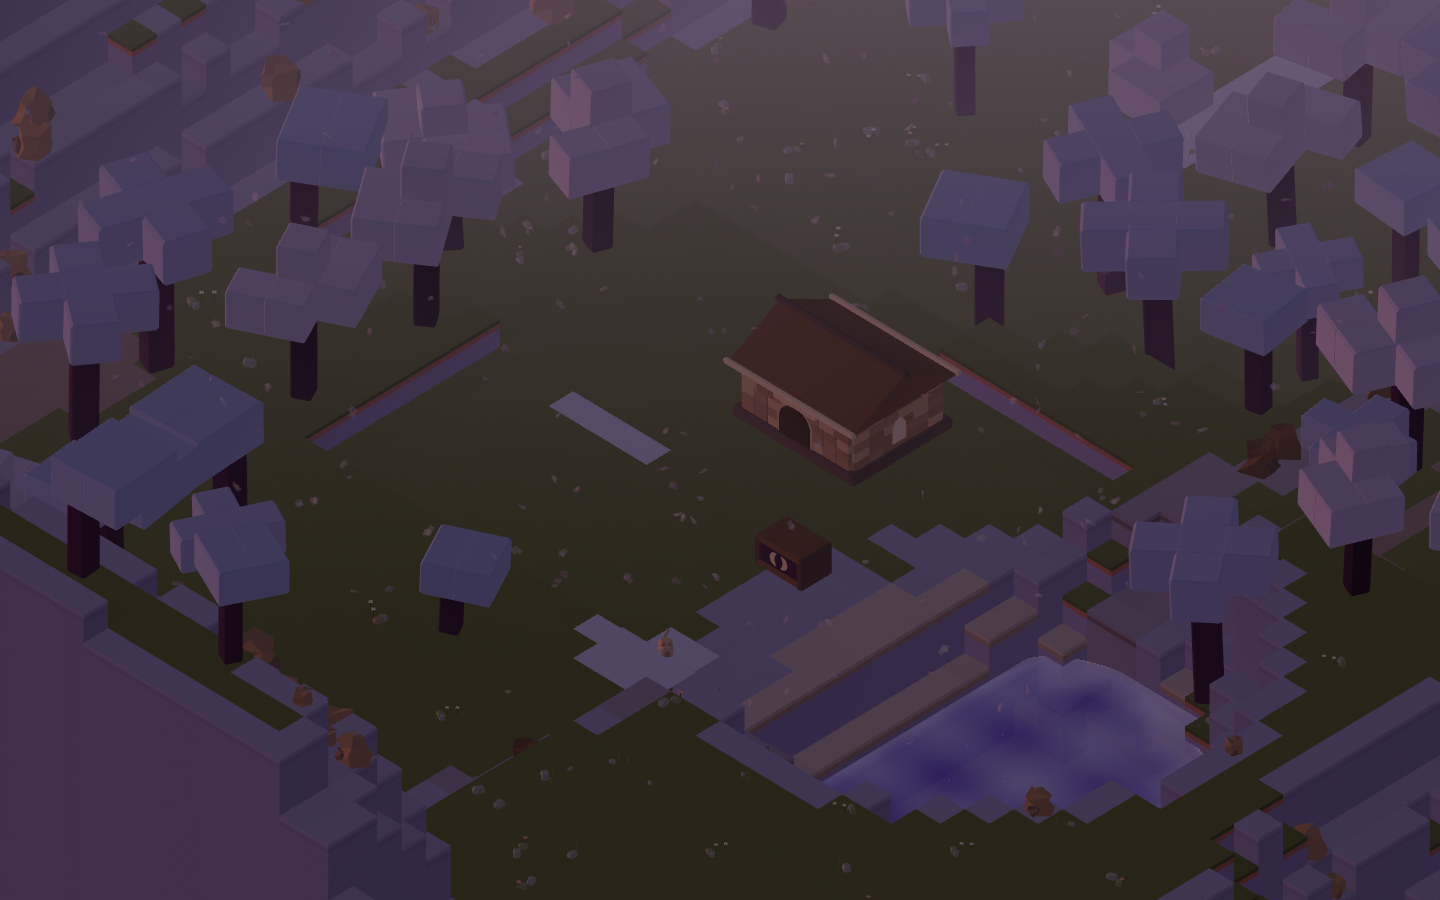
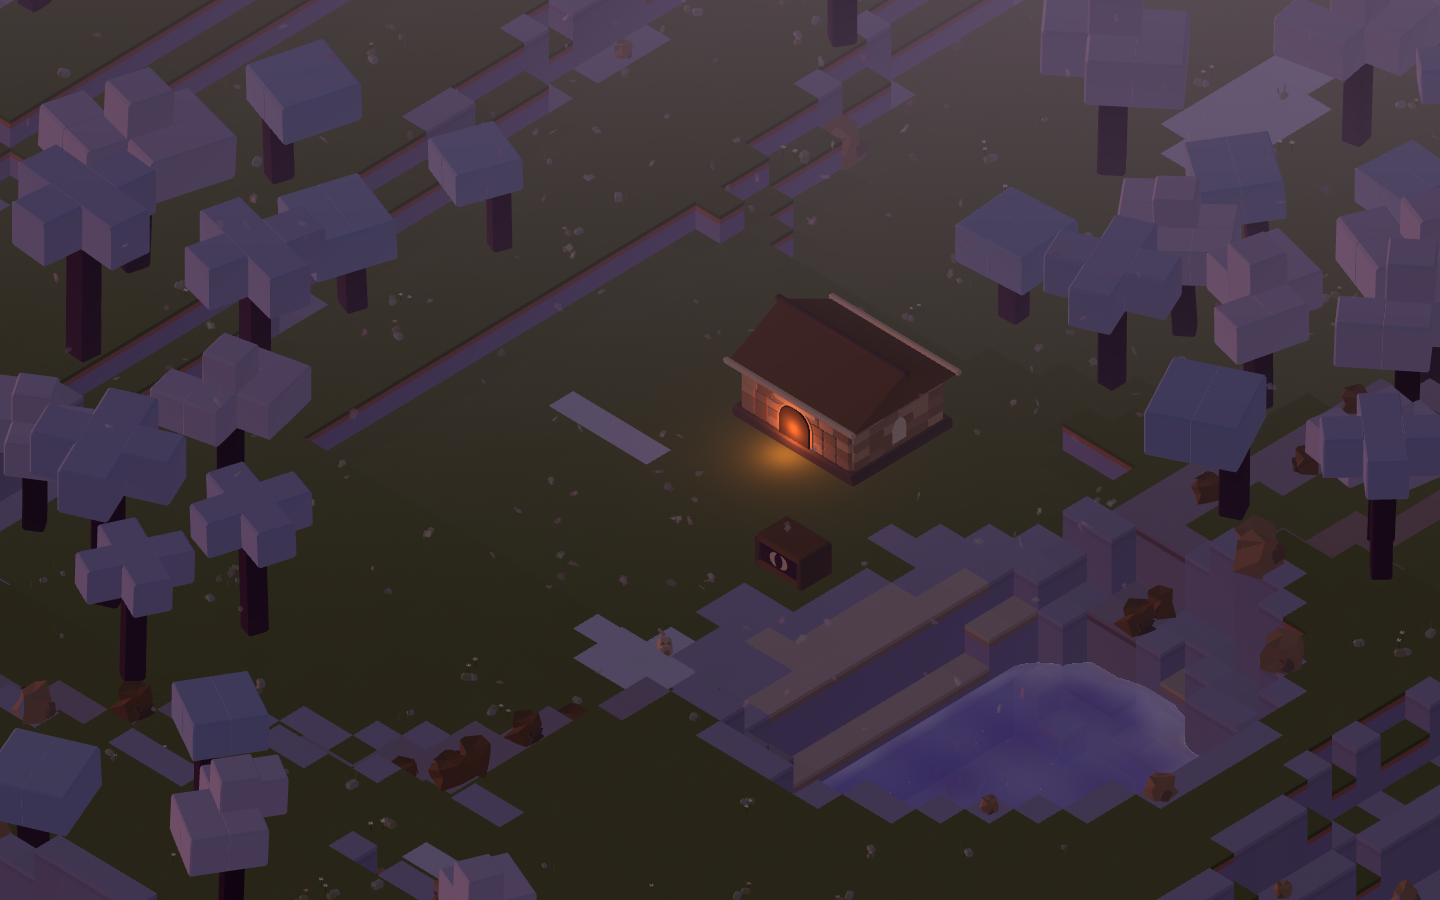
Lit windows after dark, furrowed fields, and the tab-throttling flake
NIGHT HAD NOTHING IN IT. A flat blue wash over the whole valley — technically a
night, and nothing to look at. The camera sits at thirty-seven degrees and in
close shots there is no sky in frame at all, so the stars that already exist
cannot help: whatever makes night worth being out in has to be on the ground.

So the homestead's windows and its doorway light up. Unlit quads a hair proud of
each opening, off by day, faded up on a curve steep enough that it reads as
somebody lighting a lamp rather than as a dimmer — plus a warm point light
outside the door that spills onto the grass. A lit door is a place somebody
lives, and it is the only warm light in a valley that has nobody else in it.

WORKED GROUND WAS A FLAT BROWN SLAB — a field only because the colour said so. A
ploughed field is rows, and at one quad per cell the way to get rows is to
alternate the top tone on a two-cell period. Six per cent either way: enough to
read as furrows from the play camera, small enough that it never becomes a
stripe the eye follows instead of the crop standing in it. Worked ground only —
alternating the meadow would be exactly the checkerboard the grain function
exists to avoid.

AND A CAPTURE OF THE FARMING, which is the game and had no pose at all; every
existing one was of scenery. `npm run shoot field` sows four rows at graded
stages so one frame carries seedling, half-grown and ripe side by side, which is
the only way to see whether the stages read apart from each other.
[…]

diff --git a/src/world/buildings.js b/src/world/buildings.js
@@ -151,9 +151,15 @@ export function homestead(tier = 1) {
 
   // Windows, as lune arches in cream — the only cream on the building, so they
   // are what your eye finds from across the valley.
+  const panes = []
   for (const side of [-1, 1]) {
     parts.push({ geometry: luneArch(0.52, 0.8, 0.1), position: [side * (w / 2 + 0.02), h * 0.28, 0], rotation: [0, side * Math.PI / 2, 0], color: UI.creamDeep })
+    panes.push({ at: [side * (w / 2 + 0.1), h * 0.28 + 0.4, 0], size: [0.42, 0.66], rot: side * Math.PI / 2 })
   }
+  // And one in the doorway, which is the one that reads from furthest away —
+  // a lit door is a place somebody lives, and it is the only warm light in a
+  // valley that has nobody else in it.
+  panes.push({ at: [0, h * 0.32, d / 2 + 0.09], size: [0.82, 1.0], rot: 0 })
 
   if (t >= 2) {
     // Porch: two posts and a canopy.
@@ -175,7 +181,14 @@ export function homestead(tier = 1) {
     parts.push({ geometry: FLARE, position: [-w / 2 + 0.7, h + 2.55, -d / 4], scale: [1.9, 0.44, 1.9], color: UI.stoneDeep })
     parts.push({ geometry: shardGeometry(), position: [-w / 2 + 0.7, h + 3.1, -d / 4], scale: [0.42, 0.55, 0.34], color: UI.rose })
   }
-  return { geometry: bake(parts), footprint: [Math.ceil(w) + 2, Math.ceil(d) + 3], height: h }
+  return {
+    geometry: bake(parts),
+    footprint: [Math.ceil(w) + 2, Math.ceil(d) + 3],
+    height: h,
+    panes,
+    // Where the light spills from. Just outside the door, at head height.
+    lamp: [0, h * 0.4, d / 2 + 0.5],
+  }
 }
 
 /**
@@ -393,6 +406,42 @@ export function placeStructure(kind, level, grid, x, z) {
     group.add(shard)
     group.userData.shard = shard
   }
+  /**
+   * WINDOWS AFTER DARK.
+   *
+   * Night was a flat blue wash over the whole valley — technically a night, and
+   * nothing in it to look at. The camera sits at thirty-seven degrees and in
+   * close shots there is no sky in frame at all, so stars cannot help: whatever
+   * makes night worth being out in has to be on the GROUND.
+   *
+   * These are unlit quads sitting a hair proud of each window and the door, off
+   * by day and faded up after dusk. One material per building so the whole set
+   * animates with a single opacity, and `glowMat` is a basic material — a window
+   * that is dimmed by the same darkness it is supposed to be pushing back is not
+   * a lit window.
+   */
+  if (built.panes?.length) {
+    const paneMat = glowMat(C.fireMid, 1)
+    paneMat.transparent = true
+    paneMat.opacity = 0
+    const panes = new THREE.Group()
+    for (const pane of built.panes) {
+      const q = new THREE.Mesh(FLAT, paneMat)
+      q.position.set(...pane.at)
+      q.rotation.y = pane.rot ?? 0
+      q.scale.set(pane.size[0], pane.size[1], 0.04)
+      panes.add(q)
+    }
+    group.add(panes)
+    group.userData.panes = paneMat
+  }
+  if (built.lamp) {
+    const lamp = new THREE.PointLight(new THREE.Color().setStyle(C.ember, THREE.SRGBColorSpace), 0, 9, 2)
+    lamp.position.set(...built.lamp)
+    group.add(lamp)
+    group.userData.lamp = lamp
+  }
+
   if (built.glow) {
     const light = new THREE.PointLight(new THREE.Color().setStyle(C.ember, THREE.SRGBColorSpace), 0, 7, 2)
     light.position.set(...built.glow)

diff --git a/src/main.js b/src/main.js
@@ -76,6 +76,7 @@ const POSES = {
   rig: { at: [HOME.x, 1.0, HOME.z], size: 5, hour: 12 },
   pebble: { at: [HOME.x + 2, -0.86, HOME.z + 2], size: 1.4, hour: 12, pebble: true },
   house: { at: [HOME.x, 1.4, HOME.z - 5], size: 6.5, hour: 12 },
+  field: { at: [HOME.x, 0.4, HOME.z + 1], size: 8, hour: 11, field: true },
   pond: { at: [HOME.x + 13, -1.1, HOME.z + 2], size: 20, hour: 11 },
   lake: { at: [N * 0.76, -1.1, N * 0.84], size: 26, hour: 12.5 },
   dawn: { at: [HOME.x, 0, HOME.z], size: 26, hour: 6.2 },
@@ -225,6 +226,36 @@ function runCapture(shot) {
   // Some poses need something in front of the camera that the player would
   // normally have to earn.
   if (shot.pebble) app.state.hatchPebble(Math.round(shot.at[0]), Math.round(shot.at[2]))
+  if (shot.field) {
+    /**
+     * A worked field, at every stage at once.
+     *
+     * The farming is the game and there was no capture of it — every pose was of
+     * scenery. Rows are sown with different crops and grown to different stages
+     * so one frame shows seedling, half-grown and ripe side by side, which is
+     * the only way to see whether the stages actually read apart.
+     */
+    const cx = Math.round(shot.at[0])
+    const cz = Math.round(shot.at[2])
+    const seeds = ['seed_grubwort', 'seed_palewheat', 'seed_grubwort', 'seed_palewheat']
+    for (let row = 0; row < 4; row++) {
+      for (let col = 0; col < 7; col++) {
+        const x = cx - 3 + col
+        const z = cz - 2 + row
+        if (!app.grid.canTill(x, z)) continue
+        app.state.give(seeds[row], 1)
+        app.state.till(x, z)
+        app.state.sow(x, z, seeds[row])
+        app.state.waterTile(x, z)
+        app.state.water = 4
+        // Stage climbs across the row, so one frame carries the whole cycle.
+        app.grid.set('grown', x, z, Math.min(6, Math.floor(col * 1.1)))
+      }
+    }
+    app.crops.dirty = true
+    app.props.dirty = true
+    app.terrain.rebuildAll()
+  }
   const focus = new THREE.Vector3(
     shot.at[0],
     shot.at[1] + grid.y(Math.round(shot.at[0]), Math.round(shot.at[2])),
@@ -528,6 +559,18 @@ function animateStructures(dt, sky) {
     if (node.userData.shard) node.userData.shard.rotation.y += dt * 0.6
     if (node.userData.glow) {
       node.userData.glow.intensity = 1.6 + night * 3.4 + Math.sin(performance.now() * 0.004) * 0.4
+    }
+    // Windows come on at dusk and go off at dawn, on a curve steep enough that
+    // the change reads as somebody lighting a lamp rather than as a dimmer.
+    if (node.userData.panes) {
+      const lit = Math.max(0, Math.min(1, (night - 0.28) / 0.34))
+      node.userData.panes.opacity = lit * 0.92
+      node.userData.panes.visible = lit > 0.01
+    }
+    if (node.userData.lamp) {
+      const lit = Math.max(0, Math.min(1, (night - 0.28) / 0.34))
+      // Physical units: a Lambert surface divides by PI, so this is about six.
+      node.userData.lamp.intensity = lit * 2.0 * Math.PI * (0.94 + Math.sin(performance.now() * 0.0016) * 0.06)
     }
   }
 }

diff --git a/src/world/mesher.js b/src/world/mesher.js
@@ -1,6 +1,6 @@
 import * as THREE from 'three'
 import { CHUNK, Grid, LEVEL, N } from './grid.js'
-import { GROUND, GROUND_KEYS } from '../core/palette.js'
+import { G, GROUND, GROUND_KEYS } from '../core/palette.js'
 
 /**
  * Chunk meshing.
@@ -96,7 +96,22 @@ export function meshChunk(grid, cx, cz) {
       if (grid.h(x + 1, z) > h) occ++
       if (grid.h(x, z - 1) > h) occ++
       if (grid.h(x, z + 1) > h) occ++
-      const k = g * (1 - occ * 0.055)
+      /**
+       * FURROWS.
+       *
+       * Worked ground was a flat brown slab — a field only because the colour
+       * said so. A ploughed field is rows, and at one quad per cell the way to
+       * get rows is to alternate the top tone on a two-cell period along one
+       * axis. Six per cent either way: enough to read as furrows from the play
+       * camera, small enough that it never becomes a stripe pattern the eye
+       * follows instead of the crop standing in it.
+       *
+       * Only worked ground gets it. Alternating the meadow would be the
+       * checkerboard `grain` above exists to avoid.
+       */
+      const worked = grid.ground[i] === G.TILLED || grid.ground[i] === G.WET
+      const furrow = worked ? (z % 2 === 0 ? 1.06 : 0.94) : 1
+      const k = g * furrow * (1 - occ * 0.055)
       const top = linear(bands[0])
       const topCol = [top[0] * k, top[1] * k, top[2] * k]
       quad([x, y, z + 1], [x + 1, y, z + 1], [x + 1, y, z], [x, y, z], [0, 1, 0], topCol)
